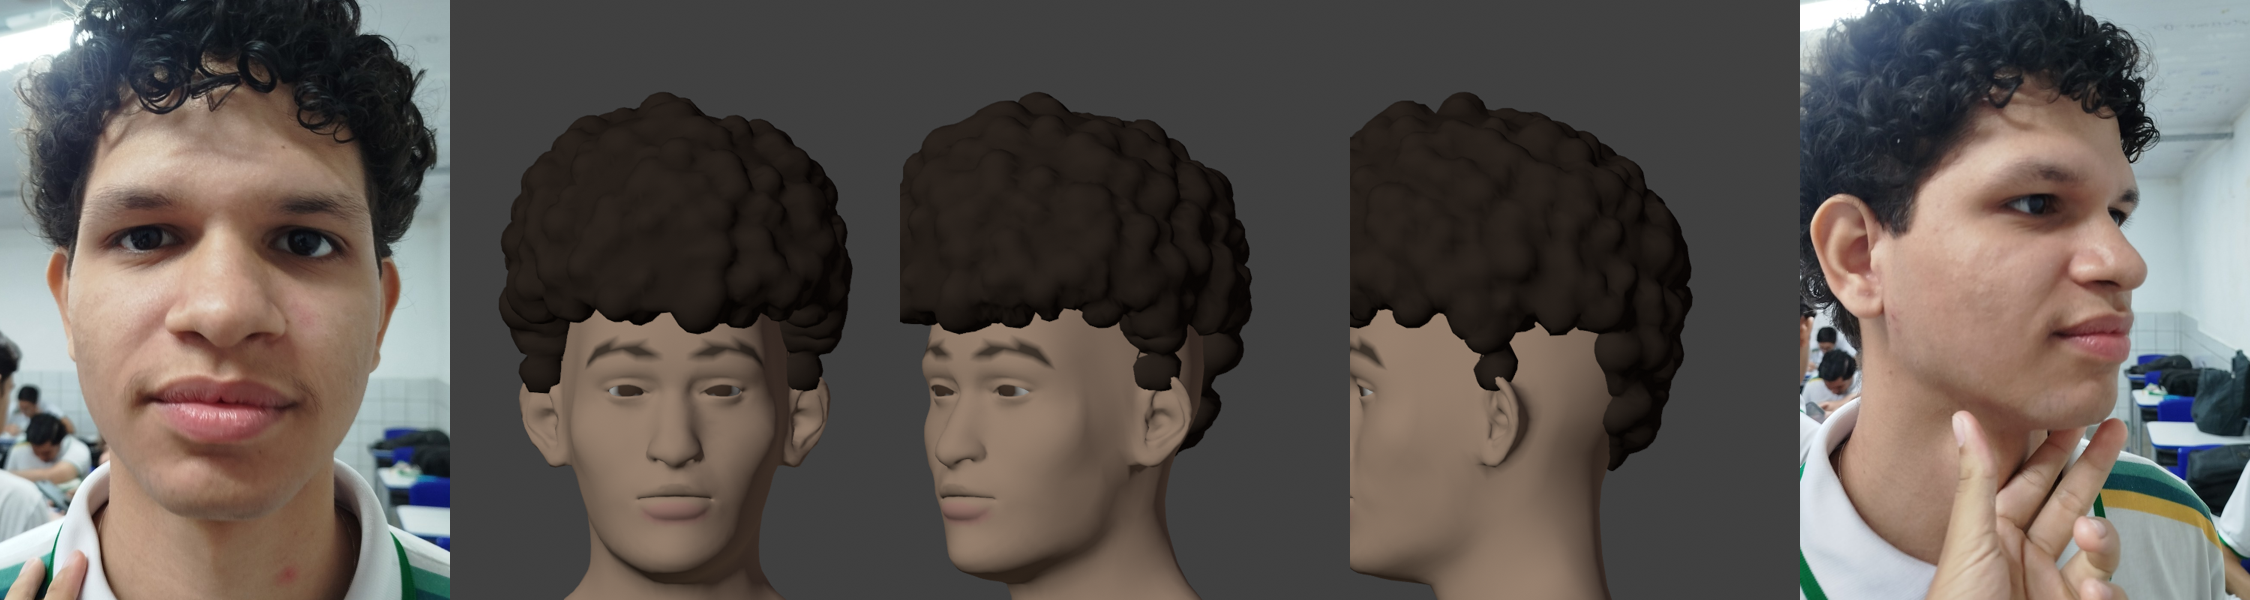
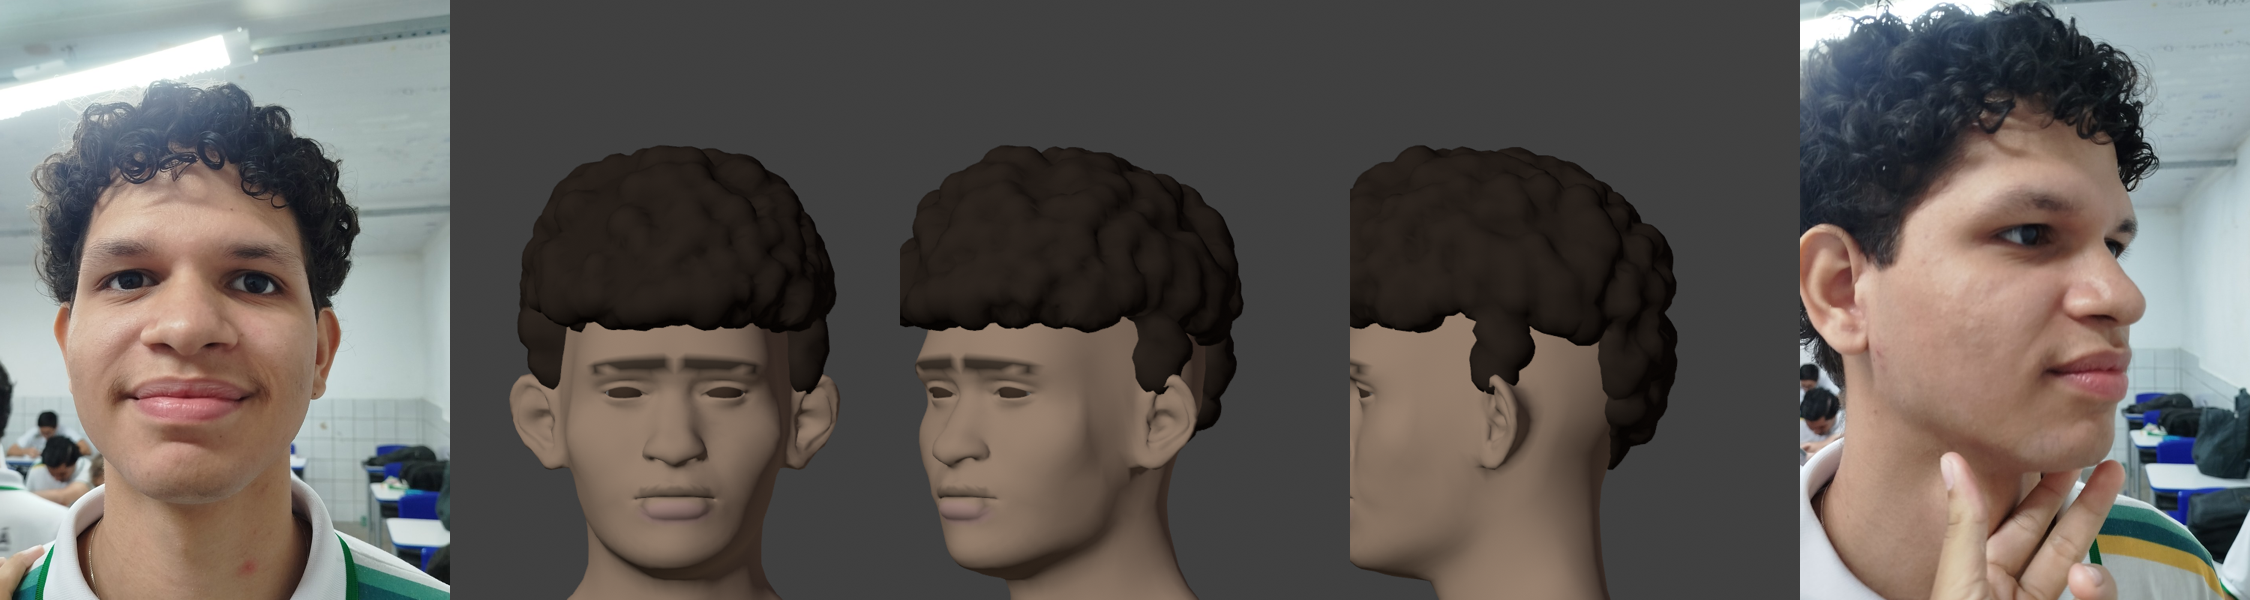
Miguel: rosto e roupas comparados as fotos novas; guia e prompt de animacao
- Fotos novas em arte/referencias/miguel (rosto, perfis, corpo, guarda, camisa)
- Rosto: cabeca mais larga, sobrancelha grossa reta e baixa, linha dos cilios,
  labio mais rosado, bigodinho ralo descendo nos cantos, orelhas de abano
- Cabelo mais baixo, franja caindo na testa
- Camisa cai reta por cima da calca (tubo abaixo da cintura), faixa verde
  ondulada e diagonal amarela na barra, listras no ombro, escudo no peito
- Calca mais comprida sobre o tenis
- arte/ANIMACAO-MIGUEL.md: erros das animacoes, regras e pipeline
- arte/PROMPT-ANIMACOES-GPT.txt: prompt das folhas de poses-chave

Claude-Session: https://claude.ai/code/session_015xcccLS1wLAHGWNWcjbuqz

diff --git a/arte/miguel_humano.py b/arte/miguel_humano.py
@@ -29,23 +29,25 @@ MACRO = {"gender": 1.0, "age": 0.52, "muscle": 0.55, "weight": 0.40,
          "african": 0.40, "asian": 0.10, "caucasian": 0.50}
 # alvo (pasta/nome sem -incr/-decr e sem l-/r-) -> valor (-1..1)
 FORMA = {
-    # rosto comprido, largo nas macas, maxilar marcado e queixo definido
-    "head/head-scale-vert": 0.15, "head/head-oval": 0.25, "head/head-fat": -0.05,
-    "head/head-scale-horiz": 0.15,
-    "cheek/cheek-bones": 0.65, "cheek/cheek-volume": 0.25,
-    "chin/chin-prominent": 0.35, "chin/chin-height": 0.30, "chin/chin-width": 0.05,
+    # rosto comprido e largo nas macas; maxilar marcado, queixo redondo
+    "head/head-scale-vert": 0.05, "head/head-oval": 0.10, "head/head-scale-horiz": 0.40,
+    "cheek/cheek-bones": 0.70, "cheek/cheek-volume": 0.45,
+    "chin/chin-prominent": 0.15, "chin/chin-height": 0.20, "chin/chin-width": 0.15,
+    # testa e sobrancelha pesadas (olho fundo, sobrancelha baixa)
+    "eyebrows/eyebrows-trans-down": 0.35, "eyebrows/eyebrows-trans-forward": 0.30,
+    "forehead/forehead-trans-forward": 0.15,
     # orelhas grandes e de abano
-    "ears/ear-scale": 0.35, "ears/ear-flap": 0.55, "ears/ear-wing": 0.60,
-    # nariz longo e reto, ponta firme, base pouco aberta
-    "nose/nose-scale-vert": 0.45, "nose/nose-trans-forward": 0.30, "nose/nose-volume": 0.10,
-    "nose/nose-flaring": 0.20, "nose/nose-point-width": -0.10, "nose/nose-hump": 0.15,
-    # labios cheios, o de baixo maior
-    "mouth/mouth-upperlip-volume": 0.35, "mouth/mouth-lowerlip-volume": 0.55,
-    "mouth/mouth-scale-horiz": 0.10,
-    # corpo: ombros largos, cintura fina
+    "ears/ear-scale": 0.50, "ears/ear-flap": 0.65, "ears/ear-wing": 0.80,
+    # nariz longo, largo, ponta redonda e asas abertas
+    "nose/nose-scale-vert": 0.30, "nose/nose-scale-horiz": 0.35, "nose/nose-volume": 0.30,
+    "nose/nose-point-width": 0.55, "nose/nose-flaring": 0.55, "nose/nose-trans-forward": 0.15,
+    # labios cheios e largos, arco do cupido marcado
+    "mouth/mouth-upperlip-volume": 0.55, "mouth/mouth-lowerlip-volume": 0.75,
+    "mouth/mouth-scale-horiz": 0.25, "mouth/mouth-cupidsbow": 0.30,
+    # corpo: ombros largos, cintura fina, pescoco longo
     "torso/torso-vshape": 0.45, "torso/measure-shoulder-dist": 0.35,
     "torso/measure-waist-circ": -0.30,
-    "neck/measure-neck-circ": -0.05, "neck/measure-neck-height": 0.20,
+    "neck/measure-neck-circ": -0.05, "neck/measure-neck-height": 0.25,
 }
 LADOS = ("cheek", "ears", "arms")  # alvos com versao l-/r-
 
@@ -176,7 +178,7 @@ def construir_corpo():
 
 # ------------------------------------------------------------------ cores
 PELE = (0.62, 0.42, 0.30)       # pardo, tirado das fotos (corrigido da luz fria)
-LABIO = (0.66, 0.36, 0.30)
+LABIO = (0.72, 0.45, 0.40)
 SOBRANCELHA = (0.10, 0.07, 0.05)
 ESCLERA = (0.86, 0.84, 0.80)
 IRIS = (0.10, 0.06, 0.04)
@@ -209,25 +211,38 @@ def pintar_corpo(ob, grupo_face, jt):
         if c.y > frente_rosto + 0.06 or v.index in vs_e or v.index in vs_d:
             continue
         ax = abs(c.x)
-        # sobrancelha: arco acima de cada olho
-        if 0.010 < ax < 0.058:
-            arco = oz + 0.020 + 0.006 * math.sin(math.pi * (ax - 0.010) / 0.048)
-            if abs(c.z - arco) < 0.0045 and c.y < frente_rosto + 0.04:
+        # sobrancelha grossa, reta e baixa, caindo um pouco na ponta de fora
+        if 0.007 < ax < 0.056:
+            t = (ax - 0.007) / 0.049
+            meio = oz + 0.016 + 0.0015 * t - 0.004 * max(0.0, t - 0.75) / 0.25
+            grossura = 0.0052 * (1.0 - 0.40 * t)
+            if abs(c.z - meio) < grossura and c.y < frente_rosto + 0.045:
                 cores[v.index, :3] = SOBRANCELHA
-        # bigodinho ralo acima do labio de cima
-        if ax < 0.024 and boca.z + 0.010 < c.z < boca.z + 0.019 and c.y < boca.y:
-            cores[v.index, :3] = np.array(PELE) * 0.75 + np.array(SOBRANCELHA) * 0.25
+        # bigodinho ralo: acima do labio e descendo nos cantos da boca
+        if ax < 0.027 and c.y < boca.y + 0.01:
+            acima = boca.z + 0.009 < c.z < boca.z + 0.016
+            canto = 0.019 < ax and boca.z - 0.004 < c.z < boca.z + 0.012
+            if acima or canto:
+                cores[v.index, :3] = np.array(PELE) * 0.6 + np.array(SOBRANCELHA) * 0.4
         # labios: faixa em volta da fenda da boca, afinando nos cantos
         largura = 0.026
         if ax < largura and c.y < boca.y + 0.012:
             alto = 0.0075 * (1 - (ax / largura) ** 2)
             if boca.z - alto * 1.3 < c.z < boca.z + alto:
                 cores[v.index, :3] = LABIO
+    for centro in (olho_e, olho_d):  # linha dos cilios em cima do olho
+        for v in me.vertices:
+            d = v.co - centro
+            if v.index in vs_e or v.index in vs_d or v.co.y > centro.y:
+                continue
+            horiz = math.hypot(d.x, d.y)
+            if horiz < 0.014 and 0.0045 < d.z < 0.0072:
+                cores[v.index, :3] = SOBRANCELHA
     for vs, centro in ((vs_e, olho_e), (vs_d, olho_d)):
         ys = [me.vertices[i].co.y for i in vs]
         frente_y, raio = min(ys), (max(ys) - min(ys)) / 2
         for i in vs:
-            cores[i, :3] = IRIS if me.vertices[i].co.y < frente_y + raio * 0.30 else ESCLERA
+            cores[i, :3] = IRIS if me.vertices[i].co.y < frente_y + raio * 0.45 else ESCLERA
     return cores, boca
 
 
@@ -296,11 +311,12 @@ def criar_cabelo(ob_corpo, olho_z):  # noqa: C901
     def volume(v):  # alto em cima e na franja, curto nos lados e na nuca
         alto = max(0.0, (v.co.z - olho_z) / (z1 - olho_z))
         frente = min(1.0, max(0.0, -v.co.y - 0.02) / 0.07)
-        return 0.008 + 0.050 * alto ** 1.3 + 0.022 * frente * alto
+        return 0.006 + 0.030 * alto ** 1.3 + 0.014 * frente * alto
     engrossar(bm, volume)
     for v in bm.verts:  # franja cai sobre a testa
-        if v.co.y < -0.045 and v.co.z < olho_z + 0.09:
-            v.co.z -= 0.016
+        if v.co.y < -0.04 and v.co.z < olho_z + 0.10:  # cachos caem na testa
+            v.co.z -= 0.012
+            v.co.y -= 0.004
     bm.to_mesh(ob.data)
     bm.free()
     sol = ob.modifiers.new("Solid", "SOLIDIFY")
@@ -392,7 +408,7 @@ def fazer_camisa(ob, base_idx, dom, jt):
     bm.from_mesh(cam.data)
     suavizar(bm, 6, 0.5, manter_borda=False)  # tecido: some o desenho dos musculos
     # cortes retos: barra, mangas e decote
-    cortar(bm, Vector((0, 0, zq - 0.075)), Vector((0, 0, -1)))
+    cortar(bm, Vector((0, 0, zq - 0.035)), Vector((0, 0, -1)))
     for lado in ("l", "r"):
         a, b = jt["joint-%s-shoulder" % lado], jt["joint-%s-elbow" % lado]
         eixo = (b - a).normalized()
@@ -403,36 +419,74 @@ def fazer_camisa(ob, base_idx, dom, jt):
         bmesh.ops.bisect_plane(bm, geom=geom, dist=1e-5, plane_co=a + (b - a) * 0.50,
                                plane_no=eixo, clear_outer=True)
     cortar(bm, Vector((0, -0.04, zp - 0.005)), Vector((0, -0.45, 1)).normalized())
-    def folga(v):
-        solto = max(0.0, min(1.0, (zq + 0.12 - v.co.z) / 0.2))  # barra mais solta
-        return 0.011 + 0.022 * solto
-    engrossar(bm, folga)
+    engrossar(bm, lambda v: 0.014)
+    # da cintura para baixo a camisa cai reta como um tubo por cima da calca
+    zc = zq + 0.10
+    faixa = [v.co for v in bm.verts if abs(v.co.z - zc) < 0.012]
+    ra = max(abs(c.x) for c in faixa) * 1.16
+    rb = max(abs(c.y) for c in faixa) * 1.22
+    for v in bm.verts:
+        if v.co.z < zc:
+            t = min(1.0, (zc - v.co.z) / 0.08) ** 0.7
+            ang = math.atan2(v.co.y / rb, v.co.x / ra)
+            alvo = Vector((ra * math.cos(ang), rb * math.sin(ang), v.co.z))
+            atual = Vector((v.co.x, v.co.y, v.co.z))
+            v.co = atual.lerp(alvo, t)
+    suavizar(bm, 2, 0.4, manter_borda=False)
     # decote: a borda abre um pouco para fora (gola baixa, sem pontas)
     for e in bm.edges:
         if e.is_boundary and all(v.co.z > zo - 0.02 and abs(v.co.x) < 0.12 for v in e.verts):
             for v in e.verts:
                 v.co += Vector((v.co.x, v.co.y, 0)).normalized() * 0.002
+    ilhas, visto = [], set()
+    for v0 in bm.verts:
+        if v0 in visto:
+            continue
+        pilha, ilha = [v0], []
+        visto.add(v0)
+        while pilha:
+            x = pilha.pop()
+            ilha.append(x)
+            for e in x.link_edges:
+                o = e.other_vert(x)
+                if o not in visto:
+                    visto.add(o)
+                    pilha.append(o)
+        ilhas.append(ilha)
+    ilhas.sort(key=len, reverse=True)
+    for ilha in ilhas[1:]:
+        bmesh.ops.delete(bm, geom=ilha, context="VERTS")
     bm.to_mesh(cam.data)
     bm.free()
     me2 = cam.data
     cores = np.zeros((len(me2.vertices), 4), np.float32)
     gola_i = set()
+    # linha do ombro: z mais alto da camisa em cada faixa de 1 cm de |x|
+    topo = [0.0] * 40
+    for v in me2.vertices:
+        i = min(int(abs(v.co.x) / 0.01), 39)
+        topo[i] = max(topo[i], v.co.z)
     for v in me2.vertices:
         c = v.co
         cor = BRANCO
-        onda = zq + 0.075 + 0.025 * math.sin(c.x * 9 + 1.2)
+        frente = c.y < 0.0
+        # faixa verde ondulada na barra (verde claro em cima, escuro embaixo)
+        onda = zq + 0.16 + 0.03 * math.sin(c.x * 11 + 0.8)
         if c.z < onda:
-            cor = VERDE if c.z > zq - 0.01 else VERDE_ESC
-            if c.x > 0.02 and abs(c.z - (onda - 0.012 + c.x * 0.15)) < 0.007:
-                cor = AMARELO
-        # tres listras (verde, verde-azulado, amarelo) do ombro ate a manga
+            cor = VERDE if c.z > zq + 0.05 + 0.02 * math.sin(c.x * 9) else VERDE_ESC
+        # diagonal amarela no lado esquerdo dele (desce do flanco ate a barra)
+        diag = zq + 0.20 - (c.x - 0.06) * 1.6
+        if c.x > 0.06 and abs(c.z - diag) < 0.013 and c.z < zq + 0.22:
+            cor = AMARELO
+        # listras do ombro: verde, verde-azulado e amarelo, da gola ate a manga
         ax = abs(c.x)
-        if 0.075 < ax < 0.25 and v.normal.z > 0.35 and c.z > zo - 0.05:
-            u = c.y + 0.045  # tres faixas de frente para tras no alto do ombro
-            if 0 <= u < 0.036:
-                cor = (VERDE, TEAL, AMARELO)[min(int(u / 0.012), 2)]
-        if v.index in gola_i:
-            cor = BRANCO if c.z < zo + 0.06 else VERDE
+        if 0.075 < ax < 0.25 and c.y < 0.03:
+            d = topo[min(int(ax / 0.01), len(topo) - 1)] - c.z
+            if 0.0 <= d < 0.039:  # da linha do ombro para baixo, na frente
+                cor = (VERDE, TEAL, AMARELO)[min(int(d / 0.013), 2)]
+        # escudo/inscricao "CEARA" no peito esquerdo (mancha escura pequena)
+        if frente and 0.045 < c.x < 0.085 and zo - 0.12 < c.z < zo - 0.095 and c.y < -0.05:
+            cor = (0.15, 0.18, 0.28)
         cores[v.index] = (*cor, 1)
     # friso verde na boca da manga
     me2.update()
@@ -462,11 +516,11 @@ def fazer_calca(ob, base_idx, dom, jt):
     bm = bmesh.new()
     bm.from_mesh(cal.data)
     suavizar(bm, 8, 0.5, manter_borda=False)
-    cortar(bm, Vector((0, 0, zq + 0.07)), Vector((0, 0, 1)))
-    cortar(bm, Vector((0, 0, za + 0.012)), Vector((0, 0, -1)))
+    cortar(bm, Vector((0, 0, zq + 0.02)), Vector((0, 0, 1)))
+    cortar(bm, Vector((0, 0, za - 0.015)), Vector((0, 0, -1)))
     def folga(v):
         baixo = max(0.0, min(1.0, (zq - 0.15 - v.co.z) / (zq - 0.15 - za)))
-        return 0.012 + 0.020 * baixo  # perna reta: abre ate a barra
+        return 0.012 + 0.032 * baixo  # perna reta: abre ate a barra
     engrossar(bm, folga)
     bm.to_mesh(cal.data)
     bm.free()
@@ -514,7 +568,7 @@ def fazer_tenis(ob, base_idx, dom, jt):
     for v in bm.verts:  # sola reta no chao
         if v.co.z < 0.014:
             v.co.z = max(0.0, v.co.z * 0.3)
-    cortar(bm, Vector((0, 0, za + 0.03)), Vector((0, 0, 1)))
+    cortar(bm, Vector((0, 0, za + 0.045)), Vector((0, 0, 1)))
     bm.to_mesh(ten.data)
     bm.free()
     cores = np.zeros((len(ten.data.vertices), 4), np.float32)

diff --git a/arte/ANIMACAO-MIGUEL.md b/arte/ANIMACAO-MIGUEL.md
@@ -1,0 +1,84 @@
+# Animações do Miguel: o que está errado e como fazer certo
+
+Este documento explica por que as animações 3D atuais saem tortas e define o
+método para refazê-las (no Blender, pelo ChatGPT/qualquer IA ou à mão), usando o
+modelo `arte/miguel_humano.py`.
+
+## 1. Os erros que vimos
+
+| Sintoma | Causa no nosso código |
+| --- | --- |
+| No chute o braço entorta para trás, cotovelo invertido | IK do braço com polo (`cL`/`cR`) mal posicionado: o solver acha a outra solução e dobra o cotovelo ao contrário. |
+| Perna "do Exorcista" (joelho/pé virado para trás) | IK da perna com polo do joelho (`jL`/`jR`) fixo atrás do corpo; quando o quadril gira 80° no chute, o polo fica do lado errado e o joelho vira. |
+| Pé ao contrário de lado | Pé preso a uma rotação no mundo enquanto o quadril gira. |
+| Corpo duro, reto, pose sem força | Poses descritas por números soltos (posições de mão/pé em metros) e não por pose de verdade; interpolação suave entre elas. |
+| Começo atrasado (queda parada e depois despenca) | Amostramos a curva suave do 3D nos mesmos instantes do 2D. |
+| Reação quase invisível | Ângulos pequenos demais; falta exagero. |
+
+Resumo: o problema não é o boneco, é **como a pose é construída**. IK com polo
+fixo + interpolação suave + valores pequenos.
+
+## 2. Regras (seguir sempre)
+
+1. **FK nos golpes, IK só para pé apoiado.** Braço e perna que golpeiam são
+   girados osso a osso (FK). IK só no pé que está no chão, para ele não escorregar.
+2. **Polo do joelho sempre à frente do joelho, na direção dos dedos do pé**; polo
+   do cotovelo sempre atrás e para fora do cotovelo. Se usar IK, o polo acompanha a
+   rotação do quadril (filho do quadril), nunca fixo no mundo.
+3. **Limites de articulação** (nunca passar):
+   - joelho e cotovelo: dobram só para um lado, 0° a 150°, nunca negativo;
+   - quadril (coxa): -30° para trás a 120° para a frente, abertura lateral até 70°;
+   - ombro: até 170° para cima, 50° para trás;
+   - coluna: até 35° de torção somando Spine+Chest+UpperChest; pescoço até 45°.
+4. **Animar por poses-chave** (o que jogos de luta fazem):
+   - cada golpe tem 3 a 5 poses: guarda → antecipação → contato → recuperação → guarda;
+   - a pose de **contato é segurada** 2 a 4 quadros; a antecipação, 2 a 3;
+   - entre poses use 1 a 2 quadros de transição, **sem interpolação suave**
+     (no Blender: interpolação *Constant* ou *Linear*);
+   - golpe rápido (jab): pouca antecipação; golpe pesado: antecipação longa.
+5. **Corpo inteiro participa:** soco começa no pé de trás, gira quadril, depois
+   tronco, depois ombro e por último o punho. Chute circular gira o pé de apoio
+   90° (calcanhar para o alvo), inclina o tronco para trás e o braço do mesmo
+   lado desce para equilibrar (não vai para trás em ângulo estranho).
+6. **Silhueta:** a pose tem de ser lida só pelo contorno, visto **de lado**
+   (é a câmera do jogo). Membro que golpeia nunca fica escondido atrás do tronco.
+7. **Exagero:** base 30% mais aberta que o real, torção maior, reação de cabeça
+   de 25° a 40°, não 10°.
+8. **Guarda do Miguel** (fotos `guarda_lado*.jpg`): punhos juntos na frente do
+   rosto, cotovelos baixos e para dentro, ombros encolhidos, joelhos dobrados,
+   pé esquerdo à frente, peso no meio.
+
+## 3. Pipeline recomendado (tudo na nuvem, sem PC potente)
+
+1. **Pose-guia:** gerar no ChatGPT/IA uma folha de poses-chave por golpe (imagem),
+   usando o prompt da seção 4 e anexando `arte/renders/miguel_corpo_comparacao.png`.
+   Serve de referência de pose, não de sprite final.
+2. **Pose no 3D:**
+   - Opção A (recomendada, grátis, no navegador): **Mixamo** (mixamo.com) — sobe o
+     `.glb`/`.fbx` do Miguel, ele faz o rig automático e tem centenas de animações de
+     luta feitas com captura de movimento (jab, cross, hook, roundhouse, knee,
+     hit reaction, knockdown, get up). Baixe em FBX "without skin", 30 fps.
+   - Opção B: **Cascadeur** (versão grátis) para ajustar poses com física.
+   - Opção C: aqui no Claude Code (cloud): eu aplico as poses-chave por FK com os
+     limites acima e renderizo.
+3. **Retarget para o nosso rig** (`Hips, Spine, Chest, UpperChest, Neck, Head,
+   Left/Right Shoulder, UpperArm, LowerArm, Hand, UpperLeg, LowerLeg, Foot, Toes`):
+   os nomes já seguem o padrão humanoide do Godot/Mixamo, então o mapeamento é 1:1.
+4. **Sprites:** `arte/miguel_sprites.py` renderiza de lado, sem anti-aliasing, e
+   gera atlas + marcadores. Mudança necessária: escolher **as poses-chave** do
+   clipe (não amostrar a curva) e segurar o quadro de contato.
+5. **Conferir:** folha de comparação 2D × 3D e checklist da seção 5 antes de ir
+   para o jogo.
+
+## 4. Prompt para o ChatGPT (folhas de pose)
+
+Ver `arte/PROMPT-ANIMACOES-GPT.txt`.
+
+## 5. Checklist por animação
+
+- [ ] Cotovelo e joelho dobram para o lado certo em todos os quadros.
+- [ ] Pé de apoio não escorrega e aponta para onde o corpo gira.
+- [ ] Contato segurado 2–4 quadros; antecipação visível.
+- [ ] Silhueta legível de lado; o membro do golpe está fora do tronco.
+- [ ] A mão que não golpeia volta para a guarda (rosto).
+- [ ] Duração e quadro de contato iguais aos do clipe 2D (`assets/miguel.json`).
